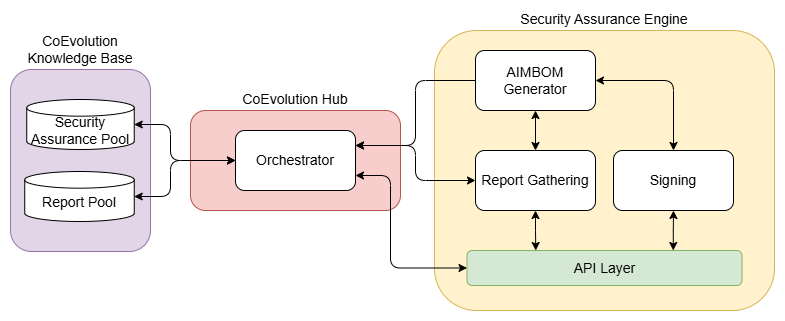
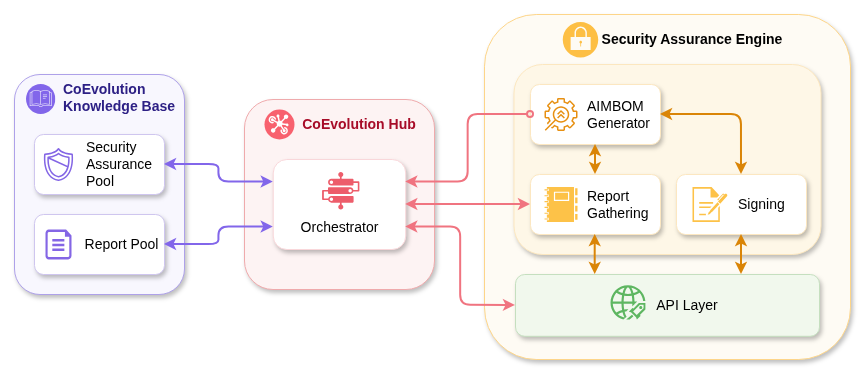
update docs

diff --git a/docs/architecture.md b/docs/architecture.md
@@ -12,32 +12,62 @@ The AIMBOM generation process is responsible for transforming validated reports 
 
 ![AIMBOM Generation Flow](graphics/AIMBOM_Generation.png)
 
+## System Overview
+
+STRAE is organized as a modular FastAPI application with a clear separation between HTTP entrypoints, background processing, external integrations, and domain services. The API layer accepts generation and signing requests, while a dedicated worker handles asynchronous generation jobs from a message broker. Shared services are responsible for validation, generation, signing, authentication, storage access, and orchestration with external systems.
+
+## Core Components
+
+- API layer: Exposes the public HTTP endpoints and coordinates request validation, business logic, and response formatting.
+- AIMBOM Generator: Consolidates validated report payloads into the structured AIMBOM schema used by STRAE and ensures the final artifact follows the expected format.
+- Report Gathering: Retrieves report payloads from the orchestrator/storage backend, resolves download URLs, and ensures all required source documents are available before generation.
+- Signing: Applies digital signing to reports and generated AIMBOMs as needed, ensuring integrity and provenance for downstream consumers.
+- Worker process: Consumes generation tasks from Kafka, decouples asynchronous execution from the API, and retries or skips work based on failure type.
+
+## Request and Processing Flow
+
+1. A client submits a generation request through the API with a model UUID, model version, and generation metadata.
+2. The API validates the request, prepares the required context, and either processes the task synchronously or publishes it for asynchronous execution.
+3. The application downloads the referenced reports from the configured storage/orchestrator source.
+4. Each report is validated for schema compliance, completeness, and integrity before being used in AIMBOM generation.
+5. The generator combines the validated inputs into a structured AIMBOM representation and optionally signs the output.
+6. The resulting AIMBOM is stored in the security assurance store and returned to the caller or queued worker for follow-up processing.
+
+## Security and Reliability Considerations
+
+- Authentication is handled centrally so that external storage and orchestration calls can be authorized consistently.
+- HTTP and storage errors are surfaced as typed exceptions to distinguish connection failures from operational issues.
+- The worker uses controlled message handling so that malformed payloads and transient failures do not permanently block the queue.
+- Logging is used throughout the pipeline to trace model UUIDs, versions, report types, and upload/download outcomes.
+
 ## API Endpoints
 
 | Endpoint | Method | Description | Input | Output |
 |----------|--------|-------------|-------|--------|
-| `/api/status` | GET | Health check endpoint for the STRAE API | - | Health Status & Version information |
-| `/api/sign` | POST | Sign the given report | Report payload (JSON format) | Signed report |
-| `/api/generate` | POST | Generate an AIMBOM for the given model UUID and version by aggregating reports from MinIO | model_uuid, model_version, generation_metadata | Confirmation Message & Unique AIMBOM identifier |
+| `/api/status` | GET | Health check endpoint for the STRAE API | - | Health status and version information |
+| `/api/sign` | POST | Signs a provided report payload | Report payload (JSON) | Signed report |
+| `/api/generate` | POST | Generates an AIMBOM for a given model UUID and version by aggregating reports from the configured storage backend | `model_uuid`, `model_version`, `generation_metadata` | Confirmation message and AIMBOM identifier |
 
-## Kafka worker
+## Kafka Worker
 
-The Kafka worker is responsible for enabling asynchronous AIMBOM generation within the STR Assurance Engine. It decouples request submission from processing by consuming generation tasks from a Kafka topic and executing them independently of the API layer.
+The Kafka worker enables asynchronous AIMBOM generation by decoupling request submission from processing. It consumes generation tasks from a configured Kafka topic and executes them independently of the API layer.
 
-The worker subscribes to a configured Kafka topic and listens for messages containing AIMBOM generation requests. Each message includes a target model identifier, version, and associated report references. Upon receiving a valid event, the worker retrieves the required data through the Orchestrator API, triggers the AIMBOM generation pipeline, and persists the resulting AIMBOM to the Security Assurance Pool.
-
-If processing succeeds, the Kafka offset is committed. In case of recoverable errors (such as missing reports or transient storage issues), the worker may delay or skip committing offsets to allow for retries, depending on the failure type. Invalid or malformed messages are safely discarded to prevent blocking the queue.
-
-The worker is designed to run as a long-lived background service and does not expose any HTTP endpoints.
+For each message, the worker validates the payload, retrieves the required reports through the orchestrator integration layer, triggers the AIMBOM generation pipeline, and persists the resulting artifact in the security assurance store. Successful processing commits the Kafka offset, while recoverable errors can defer commitment to support retry behavior. Invalid or malformed messages are discarded to avoid blocking the queue.
 
 ### Kafka Worker Processing Flow
 - Consume message from Kafka topic
-- Validate payload (model_uuid, version, reports)
-- Retrieve required reports via Orchestrator API
+- Validate payload (`model_uuid`, `version`, `reports`)
+- Retrieve required reports via orchestrator API
 - Execute AIMBOM generation
-- Store generated AIMBOM in the Security Assurance Pool
+- Store generated AIMBOM in the security assurance pool
 - Commit Kafka offset on success or controlled failure
 
 ## Technological Tools
 
-(Update this section)
+- Python 3 with FastAPI for the API layer
+- Pydantic models for request/response validation and structured payloads
+- HTTPX for asynchronous outbound requests to external services
+- Kafka for background task processing and decoupled execution
+- MinIO-compatible object storage for report and AIMBOM persistence
+- Docker Compose for local deployment and service orchestration
+- pytest for automated testing of API, generation, validation, and signing flows
